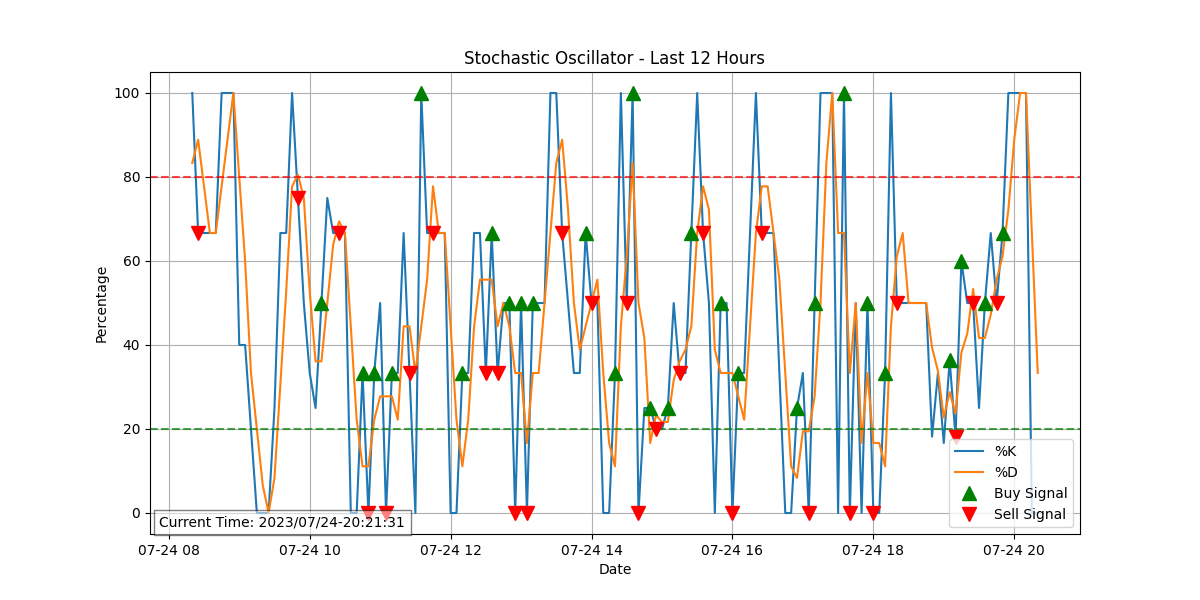
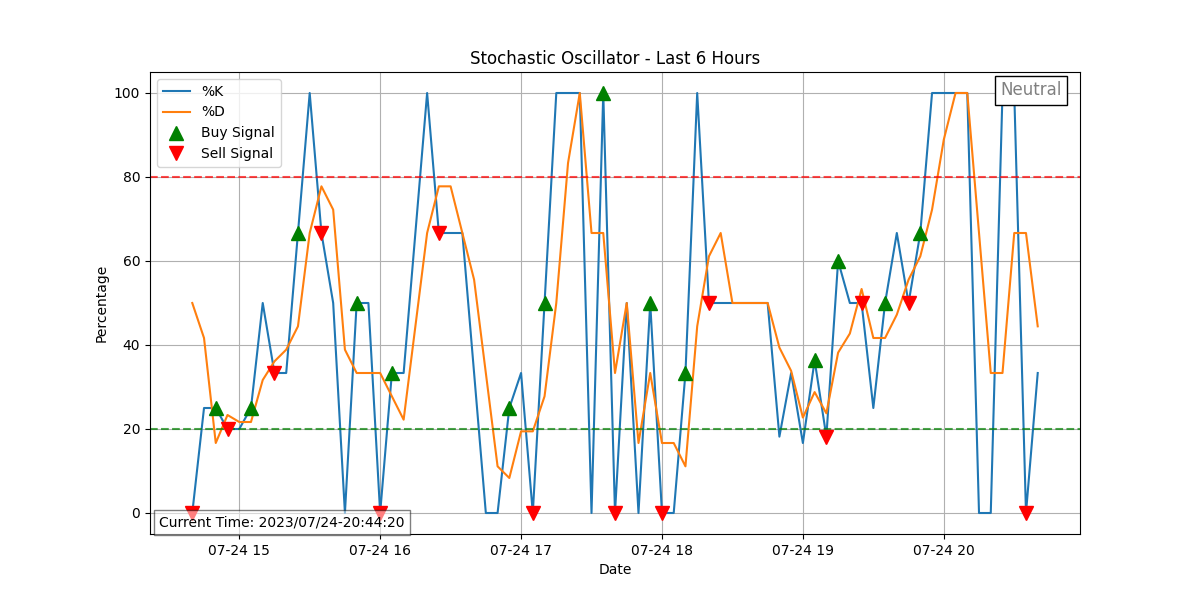
Add Current Buy/Sell/Netural Signals. Also included in Graphs.

Changed region(s): [[0.1233, 0.12, 0.8942, 0.93], [0.37, 0.09, 0.6475, 0.12], [0.1542, 0.84, 0.185, 0.87]]

diff --git a/Modules/Stochastic_Analyzer/Stochastic_Analyzer.py b/Modules/Stochastic_Analyzer/Stochastic_Analyzer.py
@@ -25,10 +25,16 @@ def stochastic_calc(coin_name, interval="minute5", count=1440):
     buy_signals = (k_percent > d_percent) & (k_percent.shift() < d_percent.shift())
     sell_signals = (k_percent < d_percent) & (k_percent.shift() > d_percent.shift())
 
-    return df, k_percent, d_percent, buy_signals, sell_signals
+    current_signal = "Neutral"
+    if buy_signals.iloc[-1]:
+        current_signal = "Buy"
+    elif sell_signals.iloc[-1]:
+        current_signal = "Sell"
+
+    return df, k_percent, d_percent, buy_signals, sell_signals, current_signal
 
 
-def stochastic_grph(coin_name, df, k_percent, d_percent, buy_signals, sell_signals, recent_hours=12):
+def stochastic_grph(coin_name, df, k_percent, d_percent, buy_signals, sell_signals, current_signal, recent_hours=6):
     # Get the end time of the data
     end_time = df.index[-1]
 
@@ -57,7 +63,7 @@ def stochastic_grph(coin_name, df, k_percent, d_percent, buy_signals, sell_signa
     plt.plot(recent_df.index[recent_sell_signals], recent_k_percent[recent_sell_signals], 'v', markersize=10, color='r',
              label='Sell Signal')
 
-    plt.title('Stochastic Oscillator - Last 12 Hours')
+    plt.title('Stochastic Oscillator - Last 6 Hours')
     plt.xlabel('Date')
     plt.ylabel('Percentage')
     plt.legend()
@@ -67,6 +73,21 @@ def stochastic_grph(coin_name, df, k_percent, d_percent, buy_signals, sell_signa
     current_time = datetime.now().strftime('%Y/%m/%d-%H:%M:%S')
     plt.text(0.01, 0.01, 'Current Time: {}'.format(current_time), transform=plt.gca().transAxes,
              fontsize=10, verticalalignment='bottom', bbox=dict(facecolor='white', alpha=0.5))
+
+    # Add a text box on the top right
+    box_text = ""
+    text_color = "gray"
+    if current_signal == "Buy":
+        box_text = "BUY"
+        text_color = "red"
+    elif current_signal == "Sell":
+        box_text = "SELL"
+        text_color = "green"
+    elif current_signal == "Neutral":
+        box_text = "Neutral"
+
+    plt.text(0.98, 0.98, box_text, transform=plt.gca().transAxes, fontsize=12, color = text_color,
+             verticalalignment='top', horizontalalignment='right', bbox=dict(facecolor='white', edgecolor='black'))
 
     # Create the 'RSI_IMG_FILES' directory if it does not exist
     img_dir = 'Modules/Stochastic_Analyzer/Stochastic_IMG_FILES'

diff --git a/main.py b/main.py
@@ -32,9 +32,9 @@ for coin in coin_list:
         Macd.macd_grph(coin)
         print("[", round(progress / 30 * 100), "%] MACD Done on coin ", coin)
     elif mode == 3:
-        df, k_percent, d_percent, buy_signals, sell_signals = Stct.stochastic_calc(coin, 'minute5', 1440)
-        Stct.stochastic_grph(coin, df, k_percent, d_percent, buy_signals, sell_signals)
-        print("[", round(progress / 30 * 100), "%] STCT Done on coin ", coin)
+        df, k_percent, d_percent, buy_signals, sell_signals, current_signal = Stct.stochastic_calc(coin, 'minute5', 1440)
+        Stct.stochastic_grph(coin, df, k_percent, d_percent, buy_signals, sell_signals, current_signal)
+        print("[", round(progress / 30 * 100), "%] STCT Done on coin ", coin,", Coin is currently on",current_signal,"position.")
     else:
         print("[STOP] Program Ended | Cause : Mode is on 0, or NaN")
         break
